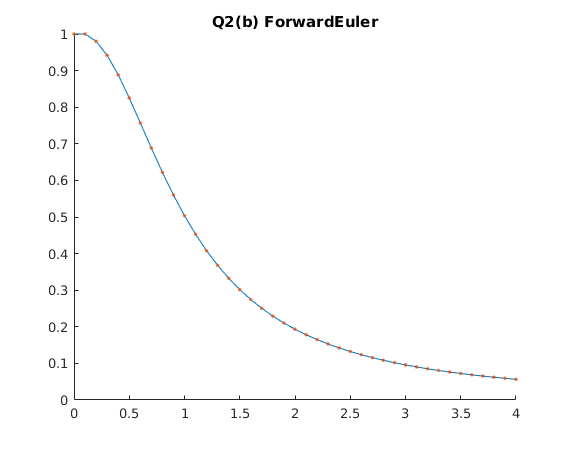
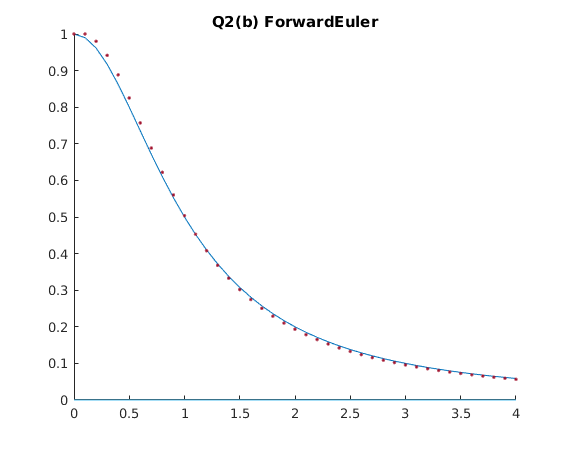
a2: Correct q2b and q2c.

diff --git a/a2/q2b.m b/a2/q2b.m
@@ -9,11 +9,16 @@ y_0 = 1;
 h = (t_f - t_0) / N;
 
 % calculate Y
-y = ForwardEuler(@q2func, t_0, t_f, N, y_0);
 t = t_0:h:t_f;
+len = length(t);
+y = zeros(len);
+for i = 1 : len
+   y(i) = q2func_exact(t(i));
+end
+y_n = ForwardEuler(@q2func, t_0, t_f, N, y_0);
 
 % plot
 hold on;
 plot(t, y);
-plot(t, y, '.');
+plot(t, y_n, '.');
 title('Q2(b) ForwardEuler');

diff --git a/a2/q2c.m b/a2/q2c.m
@@ -9,11 +9,16 @@ y_0 = 1;
 h = (t_f - t_0) / N;
 
 % calculate Y
-y = MidpointRule(@q2func, t_0, t_f, N, y_0);
 t = t_0:h:t_f;
+len = length(t);
+y = zeros(len);
+for i = 1 : len
+   y(i) = q2func_exact(t(i));
+end
+y_n = MidpointRule(@q2func, t_0, t_f, N, y_0);
 
 % plot
 hold on;
 plot(t, y);
-plot(t, y, '.');
+plot(t, y_n, '.');
 title('Q2(c) MidpointRule');
